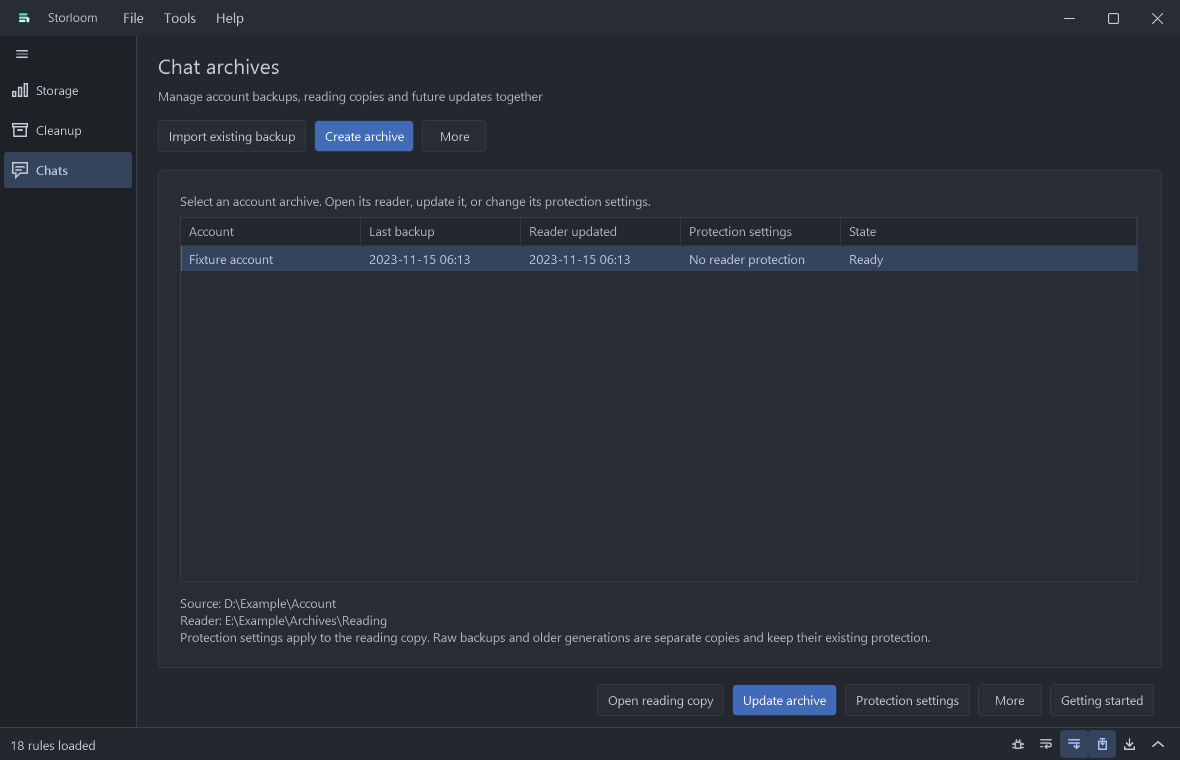
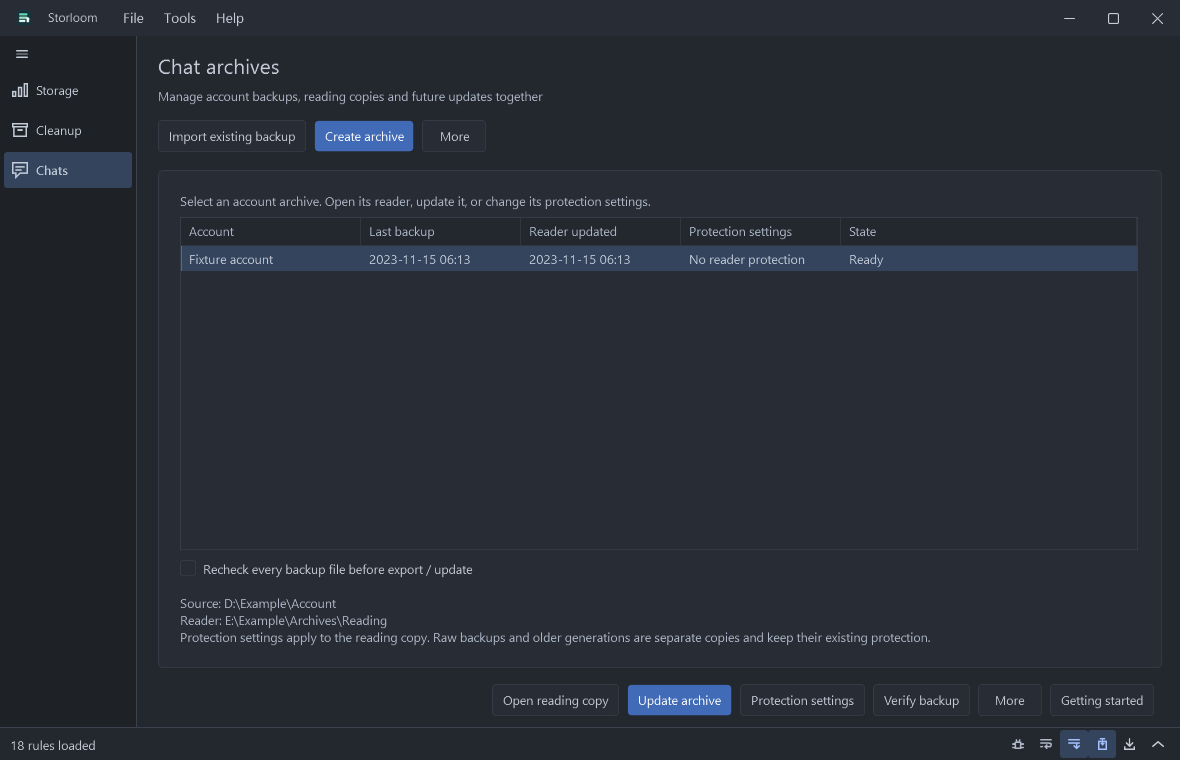
Restore archive verification choices and add independent backup checks in 1.6.0

Changed region(s): [[0.4271, 0.8776, 0.8237, 0.9382], [0.1831, 0.7263, 0.3966, 0.7566]]

diff --git a/src/Storloom.App/Desktop/ShellWindow.Archives.cs b/src/Storloom.App/Desktop/ShellWindow.Archives.cs
@@ -40,12 +40,15 @@ public sealed partial class ShellWindow {
         public string Protection=>!Project.ProtectionKnown?L.T("ArchiveProtectionLocked"):L.T(Project.Protection==ChatArchiveProtectionMode.None?"ArchiveProtectionNone":Project.Protection==ChatArchiveProtectionMode.Selected?"ArchiveProtectionSelected":Project.IncludeMedia?"ArchiveProtectionAll":"ArchiveProtectionMetadata");
         public string Task=>L.T(Project.TaskFile!=null&&File.Exists(Project.TaskFile)?"ArchiveContinue":"ArchiveReady");
     }
-    private ChatArchiveProject SelectedArchive()=>archiveTable?.SelectedItem is ArchiveRow row?row.Project:throw new InvalidOperationException(L.T("ArchiveSelect"));
+    private ChatArchiveProject SelectedArchive()=>archiveTable?.SelectedItem is ArchiveRow row?archiveProjects[row.Project.Id]:throw new InvalidOperationException(L.T("ArchiveSelect"));
     private void MigrateArchiveReaderPreferences(ChatArchiveProject project){if(project.Reading==null)return;string root=Path.Combine(dataRoot,"reader-preferences"),old=Path.Combine(root,JsonFiles.Hash(PathPolicy.Normalize(project.Reading).ToUpperInvariant())+".json"),target=Path.Combine(root,JsonFiles.Hash(new{archive=project.Id})+".json");if(!File.Exists(target)&&File.Exists(old)){PathPolicy.AssertNoLinks(old);Directory.CreateDirectory(root);File.Copy(old,target,false);}}
     private void BuildArchiveHome(){
         var grid=View.Grid(View.Auto,View.Fill,View.Auto);chatContent.Children.Add(grid);View.Add(grid,View.Text(L.T("ArchiveHomeHelp"),color:"Muted"),0);
         archiveTable=View.Table(("Account","Account",180),("ArchiveLastBackup","Backup",160),("ArchiveLastReading","Reading",160),("ArchiveProtection","Protection",160),("State","Task",0));archiveTable.Name="managed_archives";archiveTable.ItemsSource=archiveProjects.Values.OrderBy(p=>p.Account).Select(p=>new ArchiveRow(p)).ToArray();View.Add(grid,archiveTable,1);
-        var detail=View.Text(L.T("ArchiveSelect"),color:"Muted");detail.Margin=new Thickness(0,12,0,0);View.Add(grid,detail,2);
+        var verify=new CheckBox{Content=L.T("VerifyBackupBeforeExport"),Name="archive_verify_before",Margin=new Thickness(0,8,0,4),ToolTip=L.T("VerifyBackupHelp")};
+        var verifyNow=AsyncButton("VerifyBackupNow",()=>VerifyArchiveBackup(SelectedArchive()));verifyNow.Name="archive_verify_now";
+        verify.Click+=(_,_)=>Guard(()=>{var p=SelectedArchive();SaveArchive(p with{VerifyBackupBeforeReading=verify.IsChecked==true});});
+        var detail=View.Text(L.T("ArchiveSelect"),color:"Muted");detail.Margin=new Thickness(0,12,0,0);View.Add(grid,View.Stack(verify,detail),2);
         var open=Button("OpenReading",()=>{var p=SelectedArchive();if(p.Reading!=null){MigrateArchiveReaderPreferences(p);new ChatReaderWindow(p.Reading,dataRoot,preferences.ReduceMotion,p.Id){Owner=this}.Show();}});open.Name="archive_open";
         var update=AsyncButton("ArchiveUpdate",()=>PrepareArchiveUpdate(SelectedArchive()),true);update.Name="archive_update";
         var protection=AsyncButton("ArchiveProtection",()=>ConfigureArchiveProtection(SelectedArchive()));protection.Name="archive_protection";
@@ -53,15 +56,22 @@ public sealed partial class ShellWindow {
         void Action(string key,ChatArchiveUpdateRequest request){var item=new MenuItem{Header=L.T(key)};item.Click+=async(_,_)=>{try{await PrepareArchiveUpdate(SelectedArchive(),request);}catch(Exception ex){Error(ex);}};more.Items.Add(item);}
         Action("ArchiveBackupOnly",new(BackupOnly:true));Action("ArchiveRebuild",new(Rebuild:true,UseExistingBackup:true));Action("ArchiveUseBackup",new(UseExistingBackup:true));
         var abandon=new MenuItem{Header=L.T("ArchiveAbandonTask")};abandon.Click+=(_,_)=>Guard(()=>{var p=SelectedArchive();if(p.TaskFile==null)return;if(!Confirm(L.T("ArchiveAbandonConfirm")))return;PathPolicy.AssertNoLinks(p.TaskFile);if(!PathPolicy.Under(p.TaskFile,Path.Combine(dataRoot,"archive-tasks")))throw new IOException("Unexpected task location.");File.Move(p.TaskFile,p.TaskFile+"."+Guid.NewGuid().ToString("N")+".abandoned",false);SaveArchive(p with{TaskFile=null});RenderChatStage();});more.Items.Add(abandon);
-        chatFooter.Children.Add(open);chatFooter.Children.Add(update);chatFooter.Children.Add(protection);chatFooter.Children.Add(moreButton);
-        void Selection(){bool selected=archiveTable.SelectedItem is ArchiveRow;open.IsEnabled=selected&&SelectedArchive().Reading!=null;update.IsEnabled=protection.IsEnabled=moreButton.IsEnabled=selected;if(selected){var p=SelectedArchive();selectedArchiveId=p.Id;update.Content=L.T(p.TaskFile!=null&&File.Exists(p.TaskFile)?"ArchiveContinue":"ArchiveUpdate");detail.Text=L.T("ArchiveDetail",p.Source,p.Reading??L.T("ArchiveReadingPending"))+"\n"+L.T("ArchiveRawProtectionNotice");}}
+        chatFooter.Children.Add(open);chatFooter.Children.Add(update);chatFooter.Children.Add(protection);chatFooter.Children.Add(verifyNow);chatFooter.Children.Add(moreButton);
+        void Selection(){bool selected=archiveTable.SelectedItem is ArchiveRow;open.IsEnabled=selected&&SelectedArchive().Reading!=null;update.IsEnabled=protection.IsEnabled=moreButton.IsEnabled=selected;verify.IsEnabled=selected&&PendingState(SelectedArchive())==null;verifyNow.IsEnabled=selected&&SelectedArchive().Manifest!=null&&PendingState(SelectedArchive())==null;if(selected){var p=SelectedArchive();verify.IsChecked=PendingState(p)?.VerifyBackupBeforeReading??p.VerifyBackupBeforeReading;selectedArchiveId=p.Id;update.Content=L.T(p.TaskFile!=null&&File.Exists(p.TaskFile)?"ArchiveContinue":"ArchiveUpdate");detail.Text=L.T("ArchiveDetail",p.Source,p.Reading??L.T("ArchiveReadingPending"))+"\n"+L.T("ArchiveRawProtectionNotice");}}
         archiveTable.SelectionChanged+=(_,_)=>Selection();archiveTable.SelectedItem=archiveTable.Items.OfType<ArchiveRow>().FirstOrDefault(r=>r.Project.Id==selectedArchiveId)??archiveTable.Items.OfType<ArchiveRow>().FirstOrDefault();Selection();
+    }
+    private async Task VerifyArchiveBackup(ChatArchiveProject project){
+        if(project.Manifest==null)return;
+        var progress=Progress();bool completed=false;
+        await RunPausable(async token=>{await Task.Run(()=>ChatExporter.VerifyBackup(project.Manifest,progress,token),token);token.ThrowIfCancellationRequested();completed=true;});
+        if(completed){status.Text=L.T("VerifyBackupComplete");operationView.AddLog(status.Text);}
     }
     private ChatArchiveTask? PendingState(ChatArchiveProject project)=>project.TaskFile!=null&&File.Exists(project.TaskFile)?JsonFiles.Read<ChatArchiveTask>(project.TaskFile):null;
     private bool ArchiveNeedsPassword(ChatArchiveProject project,ChatArchiveUpdateRequest request)=>!request.BackupOnly&&(PendingState(project)?.Secure==true||project.Protection!=ChatArchiveProtectionMode.None||project.Reading!=null&&ChatVault.Exists(project.Reading));
     private bool ArchiveNeedsDatabase(ChatArchiveProject project,ChatArchiveUpdateRequest request)=>!request.BackupOnly&&!request.ProtectionOnly&&PendingState(project)?.ProtectionOnly!=true&&(PendingState(project)?.Phase is null or "backup" or "workspace" or "reading")&&NeedsKey();
     private async Task CreateArchiveFromSetup(){
         RegisterCurrentArchive();var project=archiveProjects[ChatArchiveProject.Identity(Account().Platform,Account().Directory)];
+        project=project with{VerifyBackupBeforeReading=verifyChatBackup};SaveArchive(project);
         pendingArchive=project;pendingArchiveRequest=new(UseExistingBackup:true);string? password=null;
         try{if(encryptAfterExport){var dialog=new VaultPasswordWindow(true,true){Owner=this};if(dialog.ShowDialog()!=true)return;password=dialog.Password;dialog.ClearSecret();pendingArchiveRequest=new(Protection:new(dialog.IncludeMedia),Mode:ChatArchiveProtectionMode.All,UseExistingBackup:true);}
             await StartArchiveUpdate(password);

diff --git a/src/Storloom.Core/Chats/ChatExporter.cs b/src/Storloom.Core/Chats/ChatExporter.cs
@@ -53,23 +53,7 @@ public sealed class ChatExporter(int maximumParallelism = 2, bool useLocalImageC
         OperationPause.Check(cancellation);
         var manifest = JsonFiles.Read<TransferJournal>(manifestPath);
         var verificationClock = System.Diagnostics.Stopwatch.StartNew();
-        if (manifest.Version != 1 || manifest.State is not ("Verified" or "Completed" or
-            "CopiedWithRetainedSources" or "CancelledAfterVerification") ||
-            manifest.Receipts.Count != manifest.Plan.Files.Count)
-            throw new InvalidDataException("The backup has not completed verification.");
-        var expected = manifest.Plan.Files.ToDictionary(f => f.RelativePath, StringComparer.OrdinalIgnoreCase);
-        var received = new HashSet<string>(StringComparer.OrdinalIgnoreCase);
-        long verifiedBytes = 0, totalBytes = manifest.Receipts.Sum(e => e.Bytes);
-        int verifiedFiles = 0;
-        foreach (var entry in manifest.Receipts) {
-            OperationPause.Check(cancellation);
-            if (!received.Add(entry.RelativePath) || !expected.TryGetValue(entry.RelativePath, out var planned) ||
-                planned.Stamp.Bytes != entry.Bytes)
-                throw new InvalidDataException("Backup receipts do not match the planned files.");
-            string path = ChatIncrementalBackup.Resolve(manifest.Plan.Destination, entry);
-            PathPolicy.AssertNoLinks(path);
-            if (new FileInfo(path).Length != entry.Bytes) throw new InvalidDataException("The archived copy changed since verification.");
-        }
+        var received = ValidateBackup(manifest, cancellation);
         foreach (string database in FindDatabases(manifest.Plan.Destination, platform))
             foreach (string file in new[] { database, database + "-wal", database + "-shm" }.Where(File.Exists))
                 if (!received.Contains(Path.GetRelativePath(manifest.Plan.Destination, file)))
@@ -84,7 +68,43 @@ public sealed class ChatExporter(int maximumParallelism = 2, bool useLocalImageC
             if (!plain && (secret == null || ChatCipher.Detect(prefix, secret, platform) == null))
                 throw new CryptographicException(L.T("DatabaseKeyMismatch"));
         }
-        if (verifyBackup) foreach (var entry in manifest.Receipts) {
+        if (verifyBackup) VerifyBackupContents(manifest, progress, cancellation);
+        return ExportCore(manifest.Plan.Destination, destination, platform, secret, progress, cancellation, false,
+            manifest.Receipts.ToDictionary(e => e.RelativePath, StringComparer.OrdinalIgnoreCase), Path.GetFileName(manifest.Plan.Source), verificationClock.Elapsed.TotalSeconds, verifyBackup, resume, selectMessage, includeDatabase);
+    }
+
+    /// <summary>Recheck the immutable raw backup against its receipts without exporting or unlocking databases.</summary>
+    public static void VerifyBackup(string manifestPath, IProgress<ScanProgress>? progress = null, CancellationToken cancellation = default) {
+        OperationPause.Check(cancellation);
+        PathPolicy.AssertNoLinks(manifestPath);
+        var manifest = JsonFiles.Read<TransferJournal>(manifestPath);
+        ValidateBackup(manifest, cancellation);
+        VerifyBackupContents(manifest, progress, cancellation);
+    }
+
+    private static HashSet<string> ValidateBackup(TransferJournal manifest, CancellationToken cancellation) {
+        if (manifest.Version != 1 || manifest.State is not ("Verified" or "Completed" or
+            "CopiedWithRetainedSources" or "CancelledAfterVerification") ||
+            manifest.Receipts.Count != manifest.Plan.Files.Count)
+            throw new InvalidDataException("The backup has not completed verification.");
+        var expected = manifest.Plan.Files.ToDictionary(f => f.RelativePath, StringComparer.OrdinalIgnoreCase);
+        var received = new HashSet<string>(StringComparer.OrdinalIgnoreCase);
+        foreach (var entry in manifest.Receipts) {
+            OperationPause.Check(cancellation);
+            if (!received.Add(entry.RelativePath) || !expected.TryGetValue(entry.RelativePath, out var planned) ||
+                planned.Stamp.Bytes != entry.Bytes)
+                throw new InvalidDataException("Backup receipts do not match the planned files.");
+            string path = ChatIncrementalBackup.Resolve(manifest.Plan.Destination, entry);
+            PathPolicy.AssertNoLinks(path);
+            if (new FileInfo(path).Length != entry.Bytes) throw new InvalidDataException("The archived copy changed since verification.");
+        }
+        return received;
+    }
+
+    private static void VerifyBackupContents(TransferJournal manifest, IProgress<ScanProgress>? progress, CancellationToken cancellation) {
+        long verifiedBytes = 0, totalBytes = manifest.Receipts.Sum(e => e.Bytes);
+        int verifiedFiles = 0;
+        foreach (var entry in manifest.Receipts) {
             OperationPause.Check(cancellation);
             using var input = File.OpenRead(ChatIncrementalBackup.Resolve(manifest.Plan.Destination, entry));
             if (input.Length != entry.Bytes || Convert.ToHexString(TransferService.Hash(input, cancellation, count => {
@@ -93,8 +113,7 @@ public sealed class ChatExporter(int maximumParallelism = 2, bool useLocalImageC
             })) != entry.Sha256) throw new InvalidDataException("The archived copy changed since verification.");
             verifiedFiles++;
         }
-        return ExportCore(manifest.Plan.Destination, destination, platform, secret, progress, cancellation, false,
-            manifest.Receipts.ToDictionary(e => e.RelativePath, StringComparer.OrdinalIgnoreCase), Path.GetFileName(manifest.Plan.Source), verificationClock.Elapsed.TotalSeconds, verifyBackup, resume, selectMessage, includeDatabase);
+        progress?.Report(new("chat-verify", verifiedFiles, verifiedBytes, totalBytes, manifest.Receipts.Count));
     }
 
     private ChatExportResult ExportCore(string source, string destination, ChatPlatform platform,

diff --git a/src/Storloom.Core/Chats/ChatArchiveWorkflow.cs b/src/Storloom.Core/Chats/ChatArchiveWorkflow.cs
@@ -6,10 +6,11 @@ public sealed record ChatArchiveProject(string Id,string Account,ChatPlatform Pl
     public string? Manifest{get;init;}public string? Reading{get;init;}
     public DateTimeOffset? BackedUpAt{get;init;}public DateTimeOffset? ReadableAt{get;init;}
     public ChatArchiveProtectionMode Protection{get;init;}public bool IncludeMedia{get;init;}=true;public bool ProtectionKnown{get;init;}=true;
+    public bool VerifyBackupBeforeReading{get;init;}=true;
     public string? TaskFile{get;init;}
     public static string Identity(ChatPlatform platform,string source)=>JsonFiles.Hash(new{platform,source=PathPolicy.Normalize(source).ToUpperInvariant()});
 }
-public sealed record ChatArchiveTask(int Version,string ProjectId,string Work,string Generation,string? PreviousReading,string? Manifest,string Phase,bool Secure,bool BackupOnly=false,bool ProtectionOnly=false);
+public sealed record ChatArchiveTask(int Version,string ProjectId,string Work,string Generation,string? PreviousReading,string? Manifest,string Phase,bool Secure,bool BackupOnly=false,bool ProtectionOnly=false){public bool VerifyBackupBeforeReading{get;init;}=true;}
 public sealed record ChatArchiveUpdateRequest(bool BackupOnly=false,bool Rebuild=false,ChatArchiveProtection? Protection=null,ChatArchiveProtectionMode? Mode=null,bool UseExistingBackup=false,bool ProtectionOnly=false);
 /// <summary>Write immutable generations. Only the caller's verified catalog checkpoint switches the visible reader.</summary>
 public static class ChatArchiveWorkflow {
@@ -29,7 +30,7 @@ public static class ChatArchiveWorkflow {
         }else{
             bool secure=!request.BackupOnly&&(project.Protection!=ChatArchiveProtectionMode.None||project.Reading!=null&&ChatVault.Exists(project.Reading)||request.Mode is ChatArchiveProtectionMode.All or ChatArchiveProtectionMode.Selected);
             string id=Guid.NewGuid().ToString("N"),work=Path.Combine(accountRoot,".archive-work-"+id),generation=Path.Combine(accountRoot,"reading-"+id);
-            state=new(1,project.Id,work,generation,project.Reading,project.Manifest,request.UseExistingBackup&&project.Manifest!=null?"workspace":"backup",secure,request.BackupOnly,request.ProtectionOnly);
+            state=new(1,project.Id,work,generation,project.Reading,project.Manifest,request.UseExistingBackup&&project.Manifest!=null?"workspace":"backup",secure,request.BackupOnly,request.ProtectionOnly){VerifyBackupBeforeReading=project.VerifyBackupBeforeReading};
             JsonFiles.Write(taskFile,state);project=project with{TaskFile=taskFile};checkpoint(project);
         }
         void Save(string phase){state=state with{Phase=phase};JsonFiles.Write(taskFile,state);}
@@ -75,10 +76,10 @@ public static class ChatArchiveWorkflow {
             if(state.Phase=="reading"){
                 progress?.Report(new("archive-reading",0,0));
                 if(policy.ProtectionOnly){ }
-                else if(state.PreviousReading!=null&&!policy.Rebuild)ChatReadingUpdate.Update(state.Manifest,stage,project.Platform,databaseKey,workers,true,true,progress,cancellation,downloadQQGroupAvatars:downloadGroupAvatars,originalReadingDirectory:state.PreviousReading);
+                else if(state.PreviousReading!=null&&!policy.Rebuild)ChatReadingUpdate.Update(state.Manifest,stage,project.Platform,databaseKey,workers,state.VerifyBackupBeforeReading,true,progress,cancellation,downloadQQGroupAvatars:downloadGroupAvatars,originalReadingDirectory:state.PreviousReading);
                 else{
                     bool resume=Directory.Exists(stage)&&File.Exists(Path.Combine(stage,"export-report.json"));
-                    var result=new ChatExporter(workers,true,downloadGroupAvatars,defaultReaderDark:defaultDark).ExportVerifiedBackup(state.Manifest,stage,project.Platform,databaseKey,progress,cancellation,resume:resume);
+                    var result=new ChatExporter(workers,true,downloadGroupAvatars,defaultReaderDark:defaultDark).ExportVerifiedBackup(state.Manifest,stage,project.Platform,databaseKey,progress,cancellation,verifyBackup:state.VerifyBackupBeforeReading,resume:resume);
                     if(result.CanResume){if(cancellation.IsCancellationRequested)throw new OperationCanceledException(cancellation);throw new IOException("Reading export is incomplete; continue the archive task.");}
                 }
                 Save("protection");

diff --git a/tests/Storloom.Tests/ArchiveWorkflowTests.cs b/tests/Storloom.Tests/ArchiveWorkflowTests.cs
@@ -65,6 +65,39 @@ public sealed class ArchiveWorkflowTests:IDisposable {
         var state=JsonFiles.Read<ChatArchiveTask>(TaskFile);Assert.False(File.Exists(Path.Combine(state.Work,"reader",media)));
         var next=Update(latest!,Password);using var vault=ChatVault.Open(next.Reading!,Password);using var input=vault.OpenRead(media);using var output=new MemoryStream();input.CopyTo(output);Assert.Equal(bytes,output.ToArray());Assert.True(vault.Status.Complete);
     }
+    [Theory][InlineData(false)][InlineData(true)]
+    public void DeferredVerificationDetectsChangedBackupWithoutReexporting(bool rebuild){
+        var initial=Project();File.WriteAllText(Path.Combine(initial.Source,"unused.bin"),"original");
+        var first=Update(initial with{VerifyBackupBeforeReading=false});
+        var journal=JsonFiles.Read<TransferJournal>(first.Manifest!);
+        string media=ChatIncrementalBackup.Resolve(journal.Plan.Destination,journal.Receipts.Single(r=>r.RelativePath=="unused.bin"));
+        ChatExporter.VerifyBackup(first.Manifest!);
+        File.WriteAllText(media,"modified");
+        byte[] old=File.ReadAllBytes(Path.Combine(first.Reading!,"messages.jsonl"));
+        var next=Update(first,request:new(Rebuild:rebuild,UseExistingBackup:true));
+        Assert.False(next.VerifyBackupBeforeReading);
+        Assert.Throws<InvalidDataException>(()=>ChatExporter.VerifyBackup(next.Manifest!));
+        Assert.Equal(old,File.ReadAllBytes(Path.Combine(first.Reading!,"messages.jsonl")));
+        Assert.True(File.Exists(Path.Combine(next.Reading!,"messages.html")));
+        Assert.Throws<InvalidDataException>(()=>Update(next with{VerifyBackupBeforeReading=true},request:new(Rebuild:true,UseExistingBackup:true)));
+    }
+    [Fact]public void EnabledVerificationRunsDuringDailyUpdate(){
+        var first=Update(Project());bool verified=false;
+        Update(first,request:new(UseExistingBackup:true),progress:new Callback(p=>{if(p.RuleId=="chat-verify")verified=true;}));
+        Assert.True(verified);
+    }
+    [Fact]public void ResumeRetainsVerificationChoiceAndStandaloneVerificationCanCancel(){
+        var p=Project() with{VerifyBackupBeforeReading=false};using var stop=new CancellationTokenSource();
+        Assert.ThrowsAny<OperationCanceledException>(()=>Update(p,progress:new Callback(x=>{if(x.RuleId=="archive-reading")stop.Cancel();}),token:stop.Token));
+        Assert.False(JsonFiles.Read<ChatArchiveTask>(TaskFile).VerifyBackupBeforeReading);
+        var resumed=Update(latest! with{VerifyBackupBeforeReading=true});
+        Assert.False(JsonFiles.Read<ChatExportResult>(Path.Combine(resumed.Reading!,"export-report.json")).BackupReverified);
+        using var cancelled=new CancellationTokenSource();cancelled.Cancel();
+        Assert.ThrowsAny<OperationCanceledException>(()=>ChatExporter.VerifyBackup(resumed.Manifest!,cancellation:cancelled.Token));
+        ChatExporter.VerifyBackup(resumed.Manifest!);
+        var journal=JsonFiles.Read<TransferJournal>(resumed.Manifest!);File.AppendAllText(ChatIncrementalBackup.Resolve(journal.Plan.Destination,journal.Receipts[0]),"changed length");
+        Assert.Throws<InvalidDataException>(()=>ChatExporter.VerifyBackup(resumed.Manifest!));
+    }
     [Fact]public void InvalidProjectIdentityCannotCreateWorkspace(){var p=Project() with{Id="../outside"};Assert.Throws<InvalidDataException>(()=>Update(p));Assert.False(Directory.Exists(p.BackupRoot));}
     private sealed class Callback(Action<ScanProgress> action):IProgress<ScanProgress>{public void Report(ScanProgress value)=>action(value);}
     private static void Database(string path,string sql){Assert.Equal(0,sqlite3_open_v2(path,out nint handle,6,0));try{Assert.Equal(0,sqlite3_exec(handle,sql,0,0,0));}finally{sqlite3_close_v2(handle);}}

diff --git a/tests/Storloom.App.Tests/FormTests.cs b/tests/Storloom.App.Tests/FormTests.cs
@@ -776,7 +776,11 @@ public sealed class FormTests {
         project=project with{BackedUpAt=DateTimeOffset.FromUnixTimeSeconds(1700000000),ReadableAt=DateTimeOffset.FromUnixTimeSeconds(1700000000)};JsonFiles.Write(Path.Combine(data,"chat-archives.json"),new[]{project});JsonFiles.Write(Path.Combine(data,"preferences.json"),new AppPreferences{Theme=theme,Language=locale,ReduceMotion=true});
         var window=new ShellWindow(data){ShowInTaskbar=false};try{window.Show();window.Navigate("chats");Pump();
             var table=Descendants(window).OfType<DataGrid>().Single(t=>t.Name=="managed_archives");Assert.Single(table.Items.Cast<object>());
-            foreach(string name in new[]{"archive_open","archive_update","archive_protection"})Assert.True(Descendants(window).OfType<Button>().Single(b=>b.Name==name).IsEnabled);
+            foreach(string name in new[]{"archive_open","archive_update","archive_protection","archive_verify_now"})Assert.True(Descendants(window).OfType<Button>().Single(b=>b.Name==name).IsEnabled);
+            var verification=Descendants(window).OfType<CheckBox>().Single(c=>c.Name=="archive_verify_before");Assert.True(verification.IsChecked);
+            verification.IsChecked=false;verification.RaiseEvent(new RoutedEventArgs(System.Windows.Controls.Primitives.ButtonBase.ClickEvent));
+            Assert.False(Assert.Single(JsonFiles.Read<ChatArchiveProject[]>(Path.Combine(data,"chat-archives.json"))).VerifyBackupBeforeReading);
+            var selected=(ChatArchiveProject)typeof(ShellWindow).GetMethod("SelectedArchive",System.Reflection.BindingFlags.NonPublic|System.Reflection.BindingFlags.Instance)!.Invoke(window,null)!;Assert.False(selected.VerifyBackupBeforeReading);
             Assert.DoesNotContain(Descendants(window).OfType<DataGrid>(),t=>t.Name=="chat_accounts"&&t.IsVisible);
             Capture(window,"archive-home-"+theme);
             if(theme==AppTheme.OneDark){var detail=Descendants(window).OfType<TextBlock>().First(t=>t.Text.Contains(project.Source,StringComparison.Ordinal));detail.Text=L.T("ArchiveDetail",@"D:\Example\Account",@"E:\Example\Archives\Reading")+"\n"+L.T("ArchiveRawProtectionNotice");Capture(window,"public-"+locale+"-archives");}

diff --git a/docs/quickstart.md b/docs/quickstart.md
@@ -8,6 +8,8 @@ Open Chats to select an account archive. **Create archive** provides initial set
 
 Update checks source changes, creates a verified backup, updates the reader and applies the saved protection rules. Pause retains the running task; Cancel stops work while preserving its checkpoint. **Continue update** resumes the captured backup, so changes made after that snapshot require another update. More actions include backing up originals only, rebuilding from the verified backup and abandoning a pending task without deleting its backups or workspace.
 
+The account archive home includes a saved **Recheck every backup file before export / update** option. Disable it to skip the repeated full SHA-256 pass. After completion, **Verify backup** runs that pass independently without a password or another export. Structural, size, database authentication and transfer verification checks remain active. Unfinished tasks retain the verification choice made when they started.
+
 Updates produce independent reading generations. The catalog switches only after verification. The previous reader remains readable and is retained, including any plaintext it already contained. **Protecting the new reader does not protect or remove older plaintext readers or raw backups.** Handle those copies separately.
 
 Protection is a lasting archive setting. Full protection includes matching new content. Saved conversation, type, sender and content rules also match future messages; explicit message IDs select only those messages, subject to the displayed shared-page/resource scope. Strict scope keeps sanitized public pages. Passwords and captured database keys are never saved. Scope metadata is authenticated and encrypted in the vault.

diff --git a/docs/quickstart.zh-CN.md b/docs/quickstart.zh-CN.md
@@ -8,6 +8,8 @@
 
 更新会检查来源变化, 建立经过校验的备份, 更新阅读版, 再应用保存的保护规则. 暂停保留当前运行任务; 取消会停止处理并保留检查点. **继续更新**使用已经捕获的那次备份, 之后发生的来源变化需再发起一次更新. 更多操作包括只备份原件, 从已验证备份重建阅读版, 以及放弃未完成任务. 放弃不会删除其备份或工作区.
 
+归档主页提供按归档保存的 **导出 / 更新前重新校验每个备份文件** 开关. 关闭可跳过重复的完整 SHA-256 校验. 完成后点击 **校验备份** 可独立执行一趟完整校验, 无需密码, 也无需再次导出. 结构、文件大小、数据库认证及传输校验仍保留. 未完成的任务沿用开始时的校验选择.
+
 更新会生成独立阅读版本, 校验完成后才切换归档指向. 原阅读版仍可读取并会保留, 包括其中原本存在的明文. **新阅读版加密不会保护或移除历史明文阅读版, 也不会加密备份原件.** 这些副本需要单独处理.
 
 保护方式作为归档的长期设置保存. 全部保护会包含新增内容. 会话, 类型, 发送人和内容规则会继续匹配以后新增的消息; 指定消息 ID 只选择这些消息, 仍受界面说明的共享页面和资源范围影响. 严格模式保留经过清理的公开页面. 密码和捕获的数据库密钥不会保存. 范围规则经过认证并加密保存在保护数据中.
